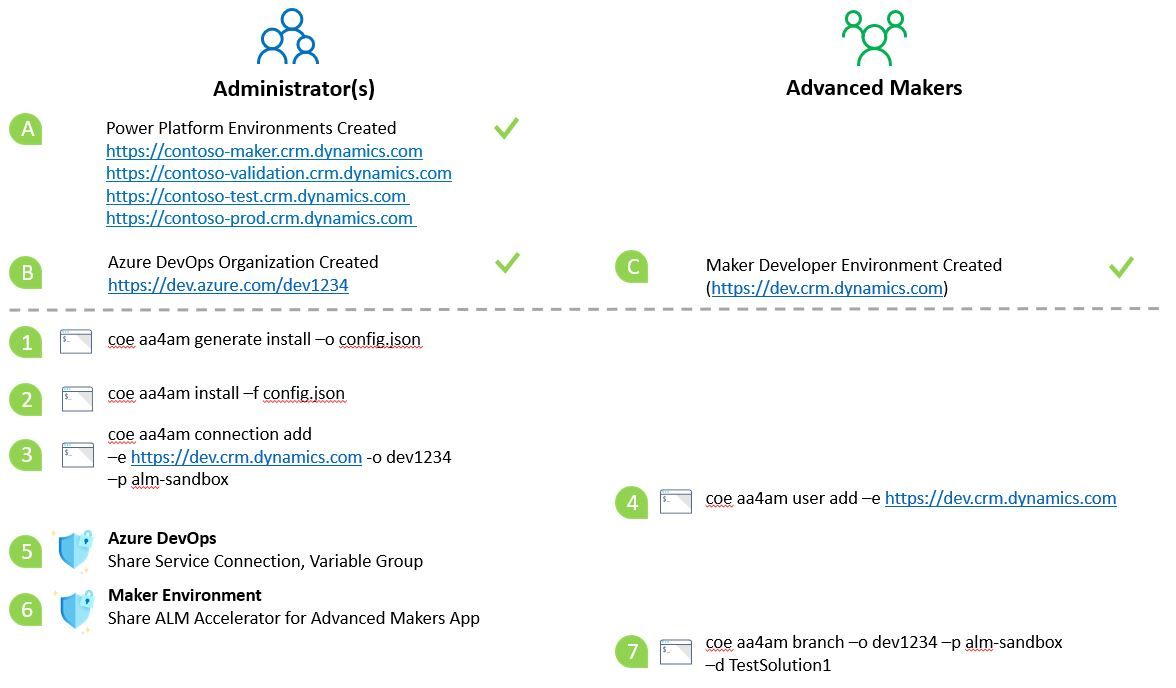
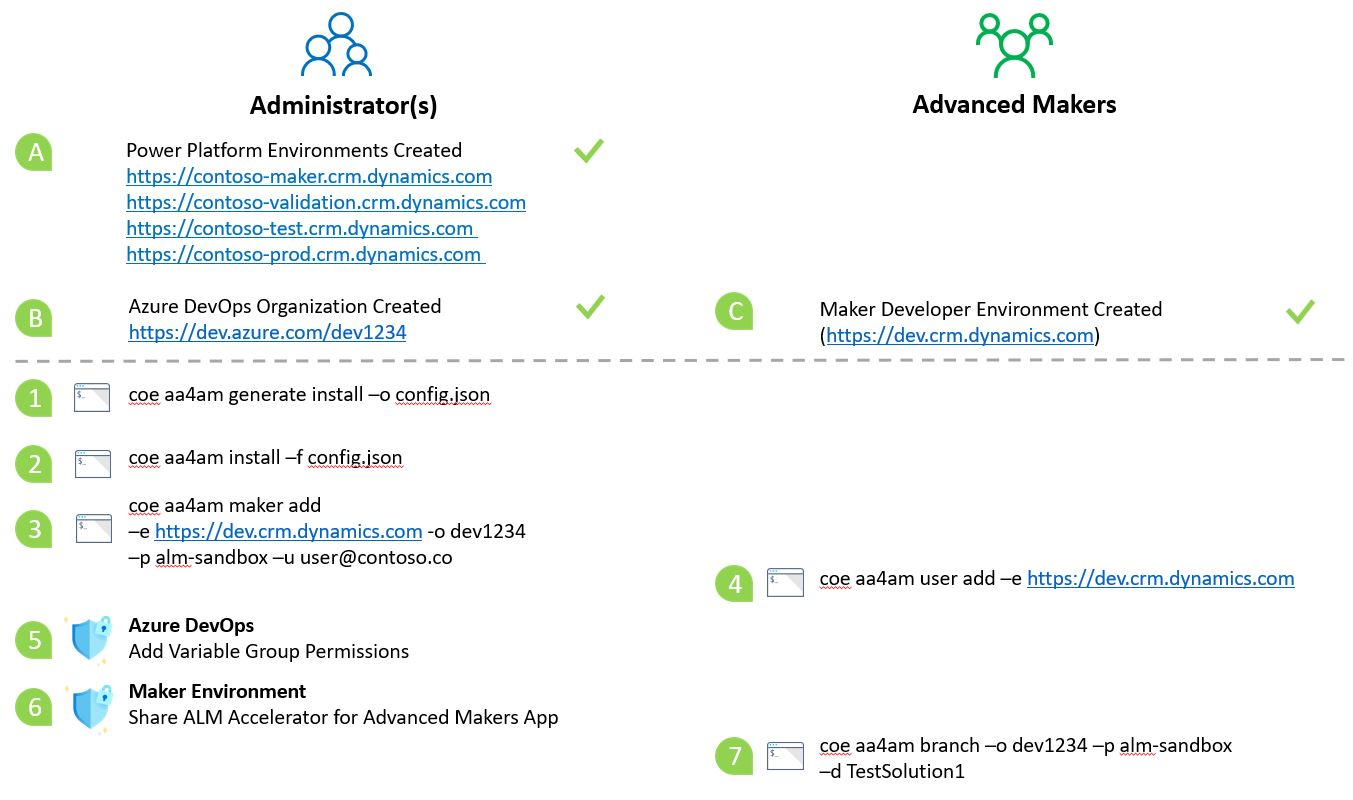
Docs update

diff --git a/coe-cli/docs/aa4am/development-environments.md b/coe-cli/docs/aa4am/development-environments.md
@@ -11,12 +11,8 @@ In addition they will require the following to setup to endure they can use the 
 
 ## Admin Maker Setup
 
-As Azure DevOps Administrator you will need to a service connection to each development environment
+As Azure DevOps Administrator you will need to add each advanced maker This process will add the required service connection to development environment and setup security for the user
 
-1. Create the Service Connection
-
+```bash
+coe aa4am maker add -o https://dev.azure.com/dev12345 -p alm-sandbox -e https://org12345-dev.crm.dynamics.com -u username@contoso.com
 ```
-coe aa4am connection add -o https://dev.azure.com/dev12345 -p alm-sandbox -e https://org12345-dev.crm.dynamics.com
-```
-
-2. For the created service connection assign the requesting user in Security rights
